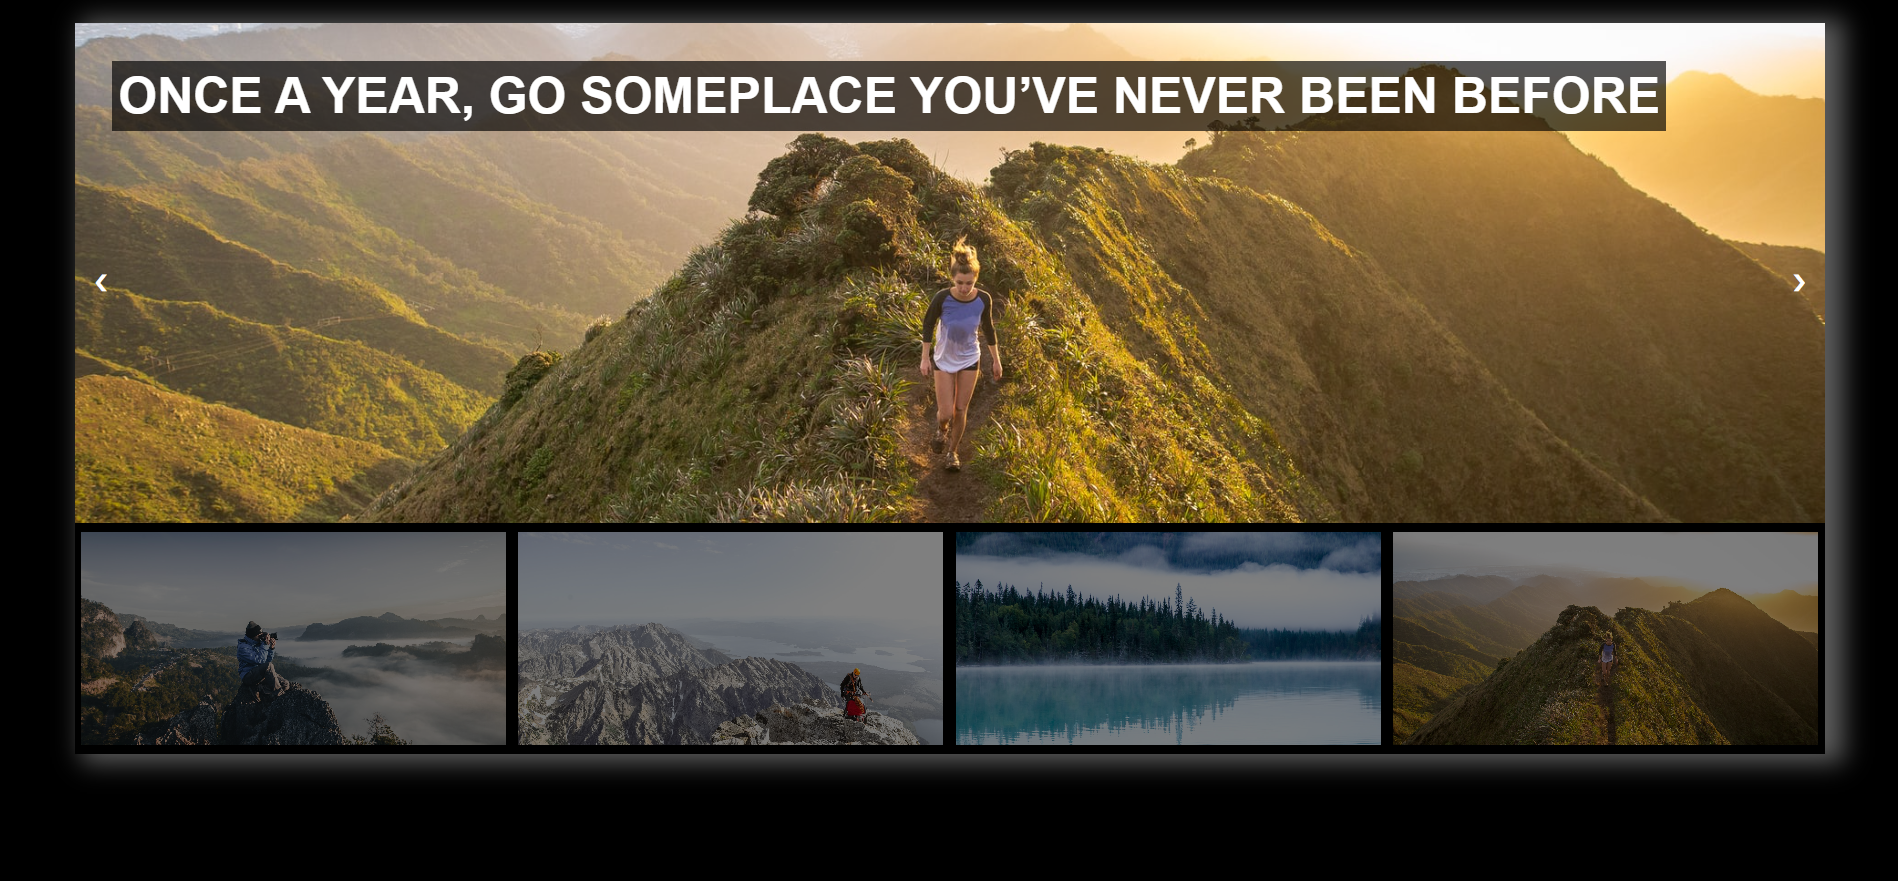
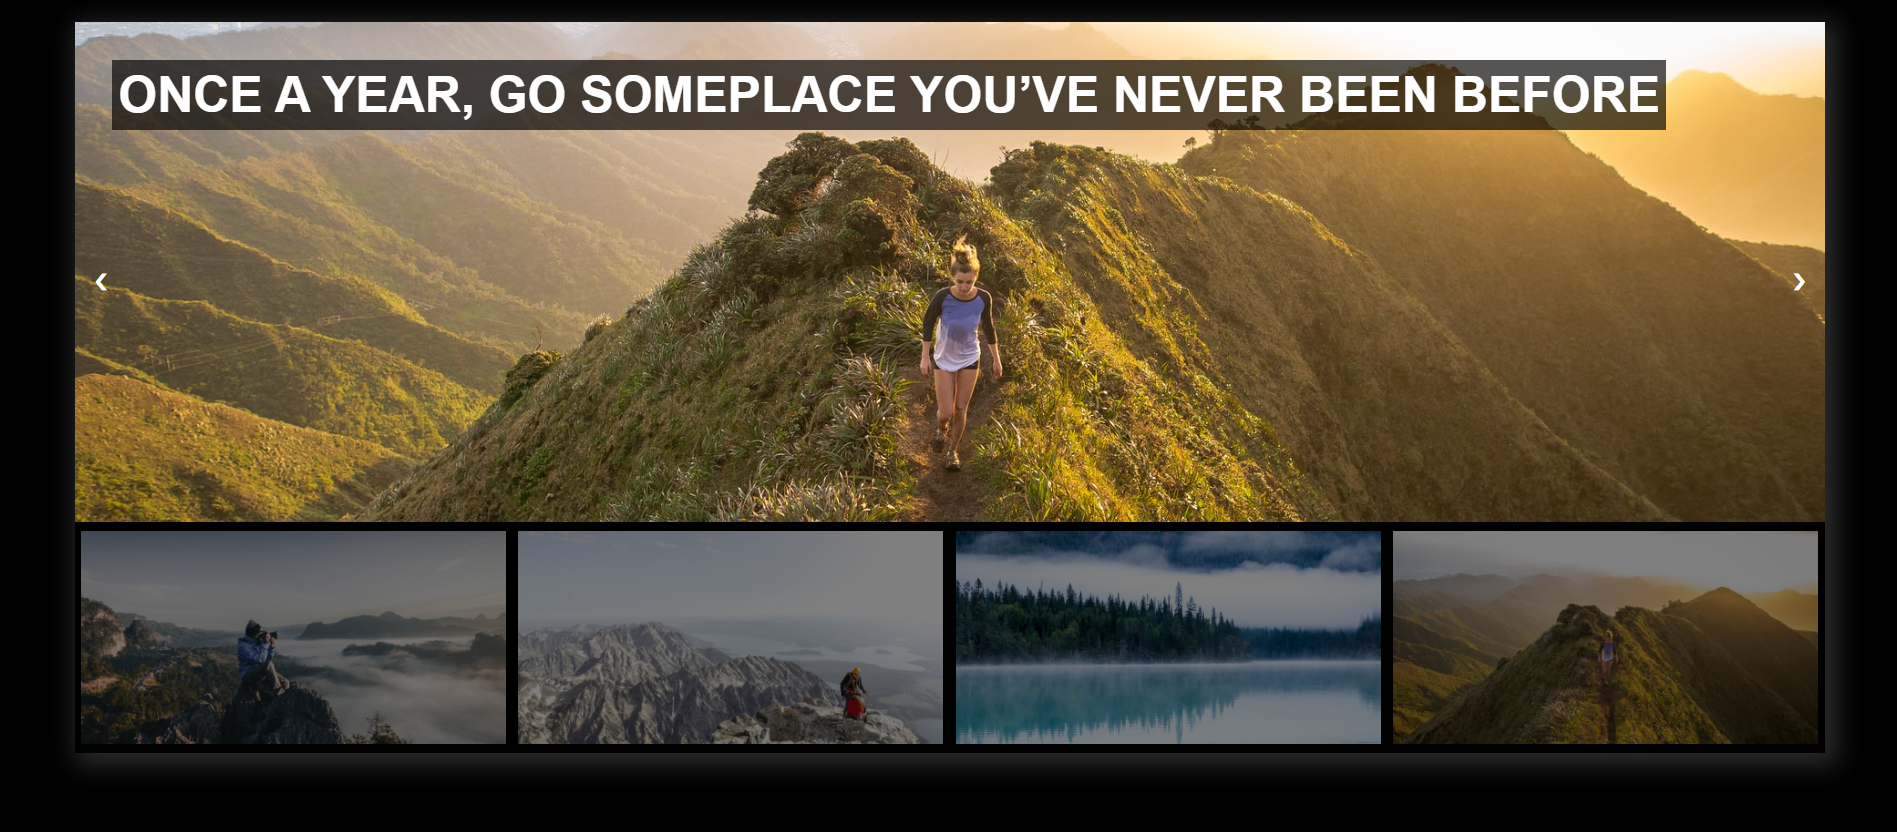
Fixes

diff --git a/src/App.js b/src/App.js
@@ -1,32 +1,32 @@
-import React, { useEffect, useRef } from 'react';
+import React, { useEffect } from 'react';
 import styled from 'styled-components';
 import image1 from './images/image1.jpg';
 import image2 from './images/image2.jpg';
 import image3 from './images/image3.jpg';
 import image4 from './images/image4.jpg';
 
+let interval;
+let quote1 = 'Jobs fill your pockets, adventures fill your soul';
+let quote2 = 'Travel is the only thing you buy that makes you richer';
+let quote3 = 'Work, Travel, Save, Repeat';
+let quote4 = 'Once a year, go someplace you’ve never been before';
+
+const images = [image1, image2, image3, image4];
+const quotes = [quote1, quote2, quote3, quote4];
 const App = () => {
   //Image is displayed
-  const [image, setImage] = React.useState(1);
-  let quote1 = 'Jobs fill your pockets, adventures fill your soul';
-  let quote2 = 'Travel is the only thing you buy that makes you richer';
-  let quote3 = 'Work, Travel, Save, Repeat';
-  let quote4 = 'Once a year, go someplace you’ve never been before';
-  let imageShowed;
-  let quoteShowed;
-  if (image === 1) {
-    imageShowed = image1;
-    quoteShowed = quote1;
-  } else if (image === 2) {
-    imageShowed = image2;
-    quoteShowed = quote2;
-  } else if (image === 3) {
-    imageShowed = image3;
-    quoteShowed = quote3;
-  } else {
-    imageShowed = image4;
-    quoteShowed = quote4;
-  }
+  const [image, setImage] = React.useState(0);
+
+  // Auto change slide interval
+  useEffect(() => {
+    interval = setInterval(() => {
+      image === 3 ? setImage(1) : setImage(image + 1);
+      clearInterval(interval.current);
+    }, 5000);
+    return () => {
+      clearInterval(interval);
+    };
+  }, [image]);
 
   // Change image functionality
   const ChangeImage = (index) => {
@@ -34,38 +34,20 @@ const App = () => {
   };
   //Next image
   const NextImage = () => {
-    image === 4 ? setImage(1) : setImage(image + 1);
+    image === 3 ? setImage(1) : setImage(image + 1);
   };
 
   // Previous image
   const PrevImage = () => {
-    image === 1 ? setImage(4) : setImage(image - 1);
+    image === 1 ? setImage(3) : setImage(image - 1);
   };
-
-  // Auto change slide interval
-  const interval = useRef(null);
-  const timeout = useRef(null);
-  useEffect(() => {
-    interval.current = setInterval(
-      () => (image === 4 ? setImage(1) : setImage((i) => i + 1)),
-      5000
-    );
-    timeout.current = setTimeout(() => {
-      clearInterval(interval.current);
-    }, 5000);
-
-    return () => {
-      clearInterval(interval.current);
-      clearTimeout(timeout.current);
-    };
-  }, [image]);
 
   return (
     <Section>
       <div className='slideshow-container'>
         <div>
-          <img className='slider_image' src={imageShowed} alt='slider' />
-          <h1 className='slider_title'>{quoteShowed}</h1>
+          <img className='slider_image' src={images[image]} alt='slider' />
+          <h1 className='slider_title'>{quotes[image]}</h1>
         </div>
         <button className='prev' onClick={PrevImage}>
           &#10094;
@@ -75,26 +57,17 @@ const App = () => {
         </button>
       </div>
       <div>
-        <img
-          src={image1}
-          className='bottom_image'
-          onClick={() => ChangeImage(1)}
-        ></img>
-        <img
-          src={image2}
-          className='bottom_image'
-          onClick={() => ChangeImage(2)}
-        ></img>
-        <img
-          src={image3}
-          className='bottom_image'
-          onClick={() => ChangeImage(3)}
-        ></img>
-        <img
-          src={image4}
-          className='bottom_image'
-          onClick={() => ChangeImage(4)}
-        ></img>
+        <div>
+          {images.map((image, i) => (
+            <img
+              key={i}
+              alt={`slider${i}`}
+              src={image}
+              className='bottom_image'
+              onClick={() => ChangeImage(i)}
+            ></img>
+          ))}
+        </div>
       </div>
     </Section>
   );
@@ -108,7 +81,7 @@ const Section = styled.div`
   margin: 0 auto;
   overflow: hidden;
   position: relative;
-  box-shadow: 1rem 0.2rem 2rem 0.5rem rgba(255, 255, 255, 0.364);
+  box-shadow: 0.5rem 0.5rem 2rem 0.5rem rgba(59, 59, 59, 0.737);
   .slideshow-container {
     max-height: 60rem;
     position: relative;
